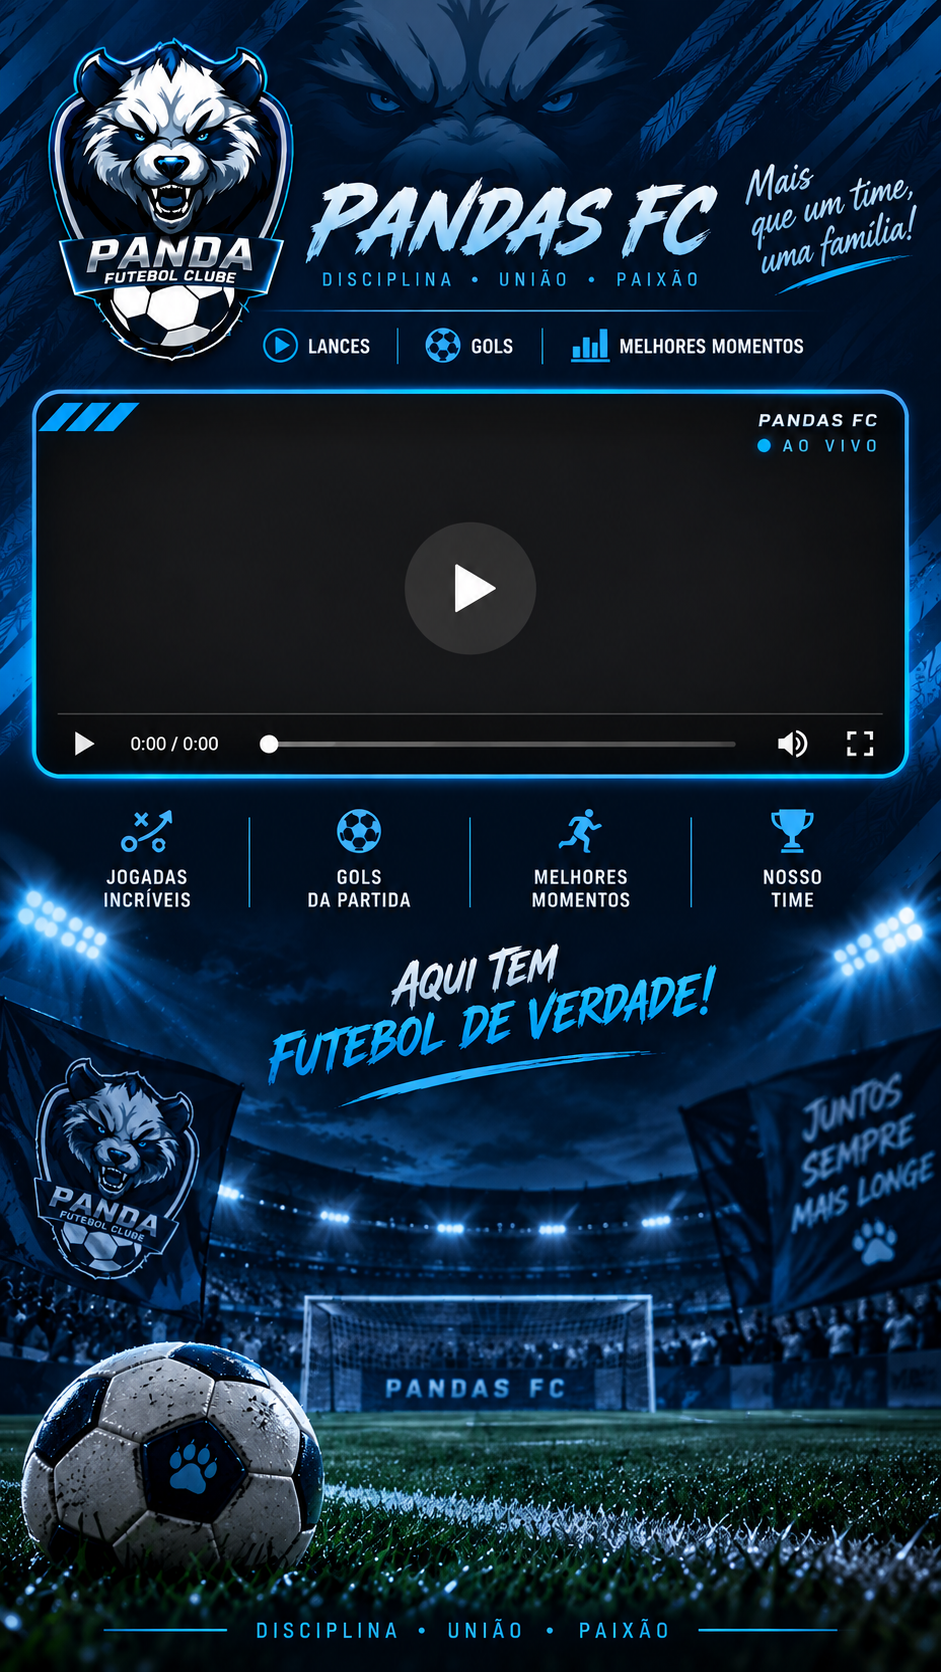
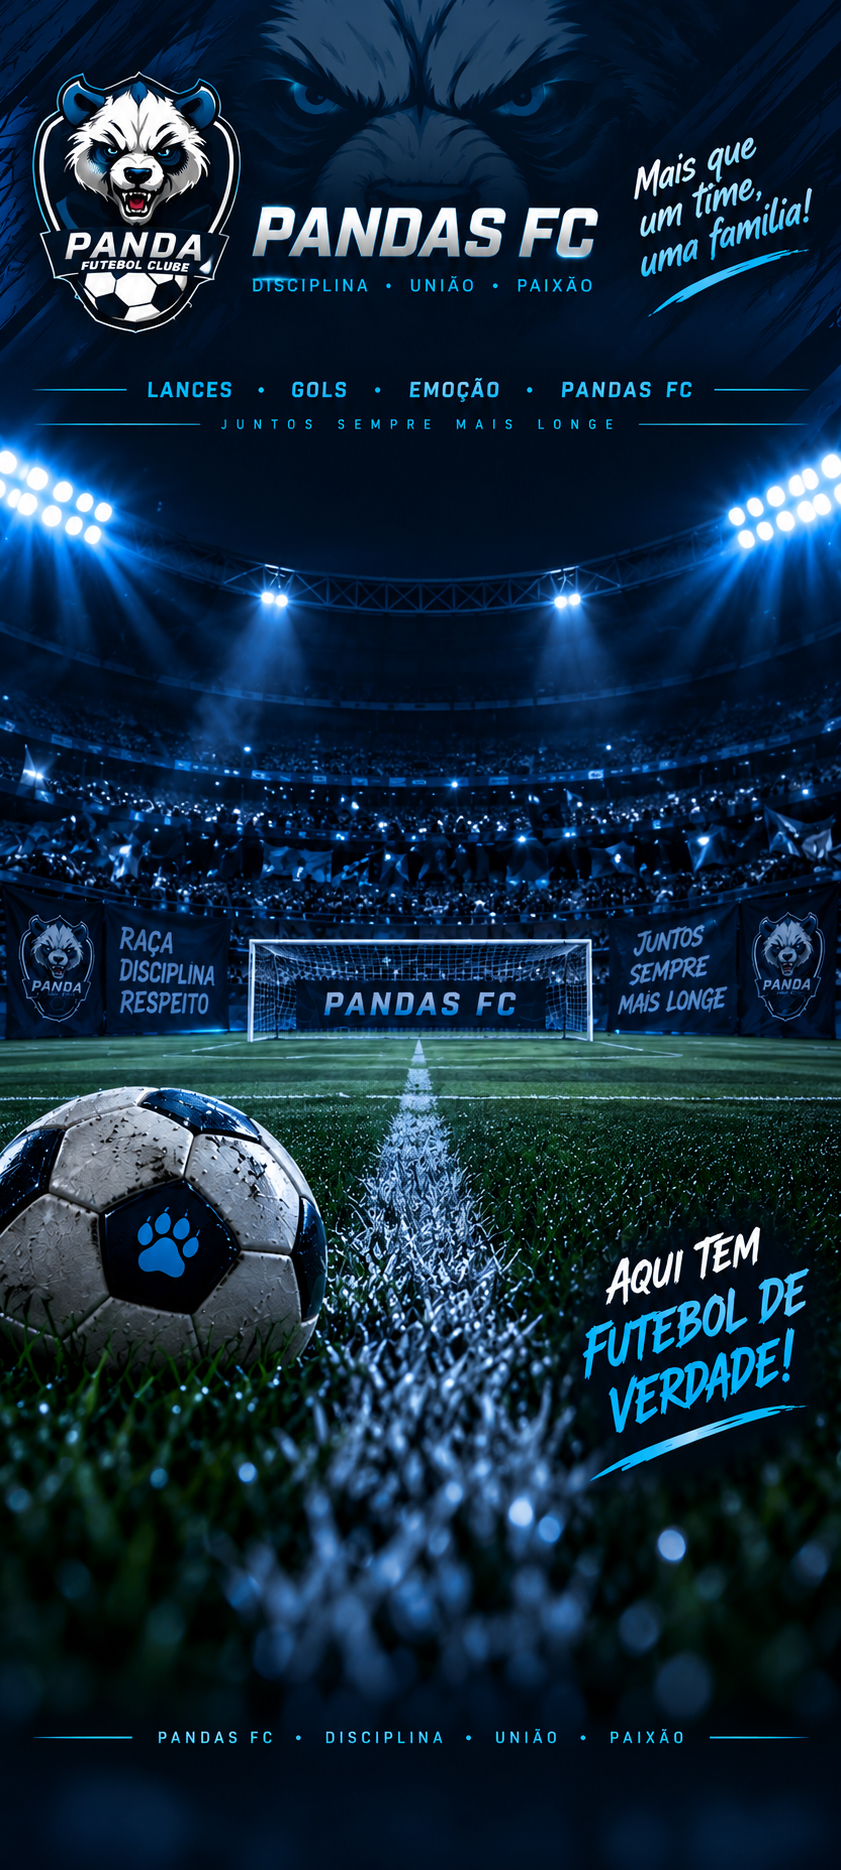
PANDAS FC v49 - novo background oficial do dashboard

diff --git a/index.html b/index.html
@@ -9,7 +9,7 @@
   <link rel="manifest" href="./manifest.webmanifest" />
   <link rel="icon" href="./icon-192.png" />
   <link rel="apple-touch-icon" href="./icon-192.png" />
-  <link rel="stylesheet" href="./styles.css?v=48" />
+  <link rel="stylesheet" href="./styles.css?v=49" />
   <title>PANDAS FC</title>
 
   <!-- OneSignal Web Push - usa o MESMO service worker do PWA -->
@@ -493,6 +493,6 @@
 
 
 
-  <script type="module" src="./app.js?v=48"></script>
+  <script type="module" src="./app.js?v=49"></script>
 </body>
 </html>

diff --git a/styles.css b/styles.css
@@ -1710,3 +1710,12 @@ input:focus,select:focus,textarea:focus{border-color:var(--panda-cyan) !importan
     padding-right:8px !important;
   }
 }
+
+/* v49 — background final aprovado */
+#dashboard{
+  background-image:url("./dashboard-lances-pandas.png") !important;
+  background-position:center top !important;
+  background-repeat:no-repeat !important;
+  background-size:100% auto !important;
+  background-attachment:scroll !important;
+}

diff --git a/sw.js b/sw.js
@@ -1,4 +1,4 @@
-const CACHE = "pandas-fc-v48-dashboard-lances";
+const CACHE = "pandas-fc-v49-dashboard-bg-final";
 
 const CORE = [
     "./dashboard-lances-pandas.png",
